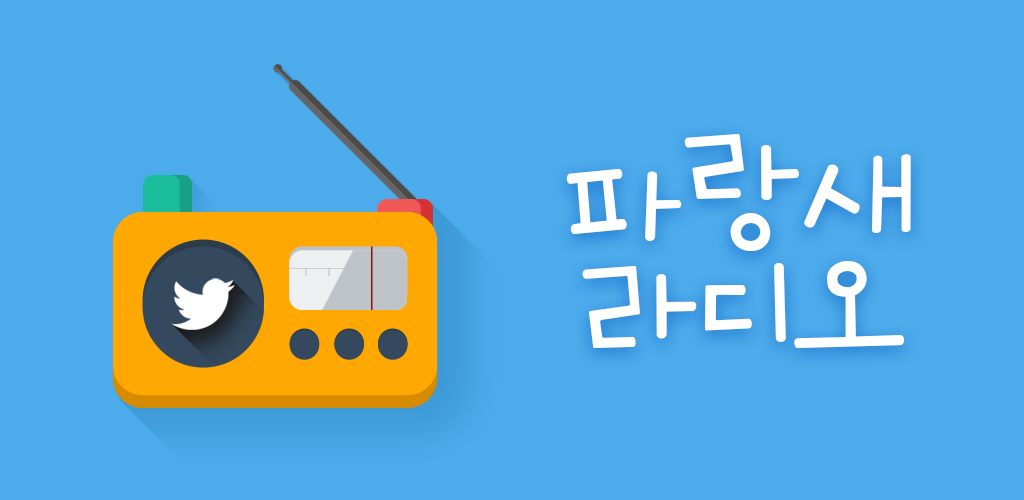
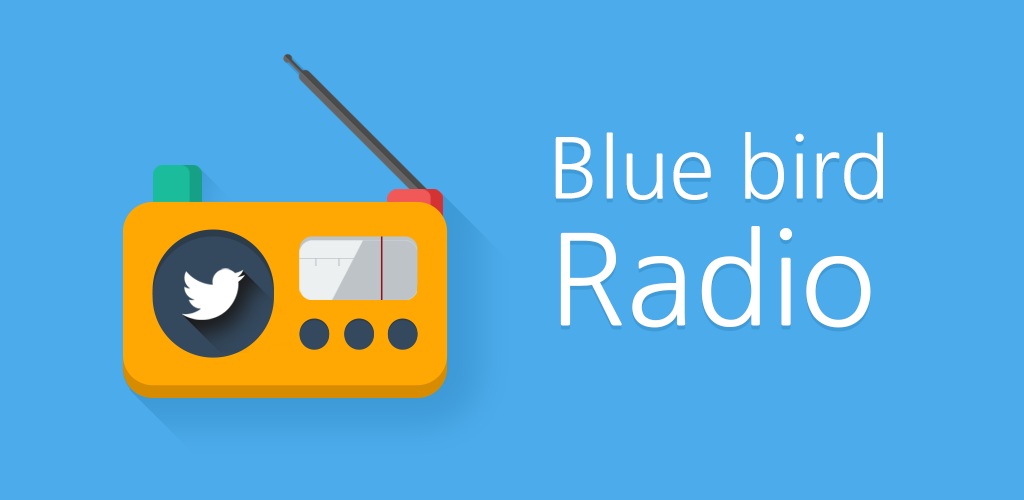
Change artworks

Changed region(s): [[0.0938, 0.12, 0.4375, 0.84], [0.5312, 0.27, 0.9062, 0.72]]

diff --git a/changelog.md b/changelog.md
@@ -2,6 +2,7 @@
 -----
 
 - Transparent Navigation bar.
+- Change artworks.
 
 
 1.3.1
@@ -11,7 +12,7 @@
 - Prevent crashing when logging with null.
 - Read direct messages.
 - Read followed by someone.
-- Change some styles
+- Change some styles.
 
 
 1.3.0
